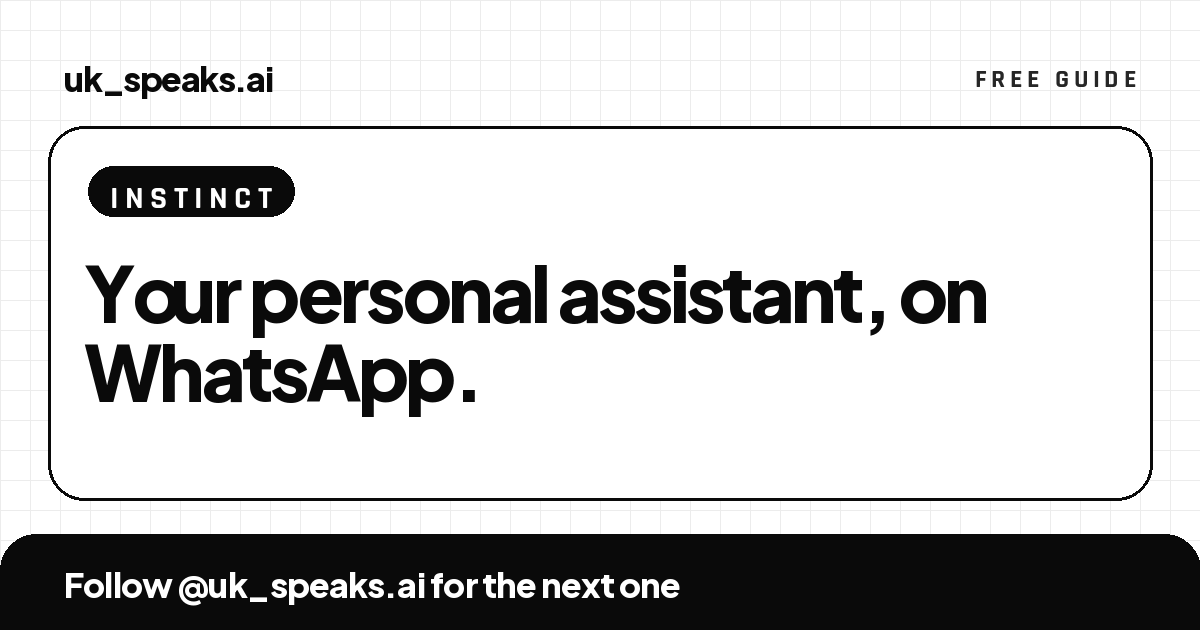
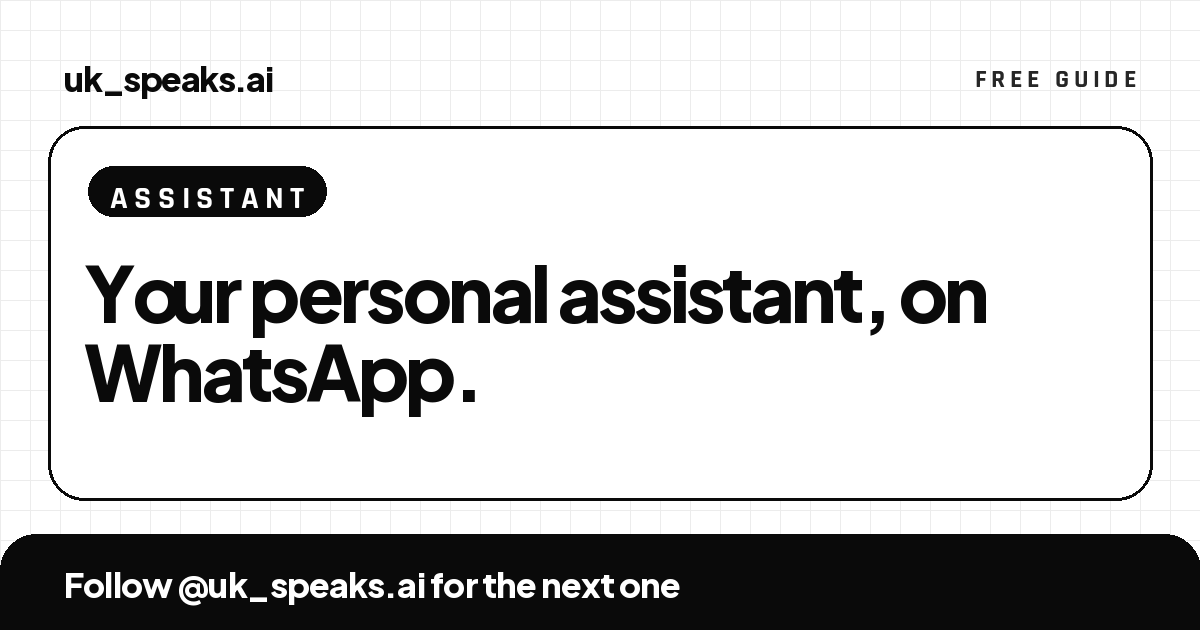
Instinct guide: link instinct.com, keyword ASSISTANT, waitlist + invite access
Claude-Session: https://claude.ai/code/session_01DrEtdZbPU4S7ibM2pCaEaR

Changed region(s): [[0.0925, 0.2413, 0.2775, 0.3619]]

diff --git a/g/instinct-assistant/index.html b/g/instinct-assistant/index.html
@@ -14,13 +14,13 @@
   <meta property="og:title" content="Your personal assistant, on WhatsApp">
   <meta property="og:description" content="Text Instinct a voice note, photo or screenshot: to-dos, medicine reminders, groceries and price-drop alerts.">
   <meta property="og:url" content="https://unnikrishnan-nambiar.github.io/uk_speaks.ai/g/instinct-assistant/">
-  <meta property="og:image" content="https://unnikrishnan-nambiar.github.io/uk_speaks.ai/assets/og/og-instinct-assistant.png">
+  <meta property="og:image" content="https://unnikrishnan-nambiar.github.io/uk_speaks.ai/assets/og/og-instinct-assistant.png?v=2">
   <meta property="og:image:width" content="1200">
   <meta property="og:image:height" content="630">
   <meta name="twitter:card" content="summary_large_image">
   <meta name="twitter:title" content="Your personal assistant, on WhatsApp">
   <meta name="twitter:description" content="Text Instinct a voice note, photo or screenshot: to-dos, medicine reminders, groceries and price-drop alerts.">
-  <meta name="twitter:image" content="https://unnikrishnan-nambiar.github.io/uk_speaks.ai/assets/og/og-instinct-assistant.png">
+  <meta name="twitter:image" content="https://unnikrishnan-nambiar.github.io/uk_speaks.ai/assets/og/og-instinct-assistant.png?v=2">
 
   <link rel="icon" href="../../favicon.svg" type="image/svg+xml">
   <link rel="icon" href="../../favicon-32.png" type="image/png" sizes="32x32">
@@ -39,13 +39,24 @@
 
     <!-- First screen: everything needed in a few seconds. -->
     <section class="card guide-intro quick">
-      <span class="label keyword">Instinct</span>
+      <span class="label keyword">Assistant</span>
       <h1 class="guide-title">Your personal assistant, <span class="underline">on&nbsp;WhatsApp.</span></h1>
       <ol class="quick-steps">
-        <li><div>Get an invite<span>Instinct is invite-only for now · ask a friend who uses it</span></div></li>
+        <li><div>Join the waitlist or use an invite<span>Instinct is waitlist and invite-only · <a href="https://instinct.com/">instinct.com</a></span></div></li>
         <li><div>Text Instinct to get started<span>Phone number → code → name and email → pick WhatsApp or iMessage</span></div></li>
         <li><div>Send it anything<span>Text, voice notes, photos, screenshots or PDFs · copy a message below</span></div></li>
       </ol>
+    </section>
+
+    <section class="prompt on-ink" aria-labelledby="get-label">
+      <div class="prompt-head">
+        <h2 class="label" id="get-label">Get Instinct</h2>
+      </div>
+      <p class="prompt-text">Waitlist and invite-only. Have an invite link from a friend? Open it. No invite yet? Join the waitlist on the website.</p>
+      <a class="btn-primary" href="https://instinct.com/">
+        Join the waitlist on instinct.com
+        <svg class="icon" width="20" height="20" viewBox="0 0 24 24" fill="none" stroke="currentColor" stroke-width="2" stroke-linecap="round" stroke-linejoin="round" aria-hidden="true"><path d="M7 17 17 7"/><path d="M8 7h9v9"/></svg>
+      </a>
     </section>
 
     <section class="card" aria-labelledby="media-label">
@@ -139,13 +150,13 @@
       <span class="step-num" aria-hidden="true">+</span>
       <h2 class="step-title">How to sign in</h2>
       <ol class="rules">
-        <li><strong>Get an invite.</strong> Instinct is in an invite-only beta. Members get invite links to share, so ask a friend who uses it. Don't buy invites from strangers.</li>
-        <li><strong>Open the invite link</strong> on your phone and tap <strong>Text Instinct to get started</strong>.</li>
+        <li><strong>Join the waitlist or use an invite.</strong> Instinct is waitlist and invite-only. Join the waitlist on <a href="https://instinct.com/">instinct.com</a>, or ask a friend who uses Instinct for an invite link. Don't buy invites from strangers.</li>
+        <li><strong>Open your invite link</strong> on your phone (or the link you get when you're off the waitlist) and tap <strong>Text Instinct to get started</strong>.</li>
         <li><strong>Enter your phone number</strong> and type in the code it sends you.</li>
         <li><strong>Add your name and email</strong>, then choose <strong>WhatsApp</strong> or <strong>iMessage</strong>.</li>
         <li><strong>Save Instinct as a contact</strong> and send “Hi”. From now on, you just chat with it like a friend.</li>
       </ol>
-      <p class="card-text">It's free during the beta. The screens may look slightly different for you.</p>
+      <p class="card-text">The screens may look slightly different for you.</p>
     </section>
 
     <section class="card" aria-labelledby="more-label">
